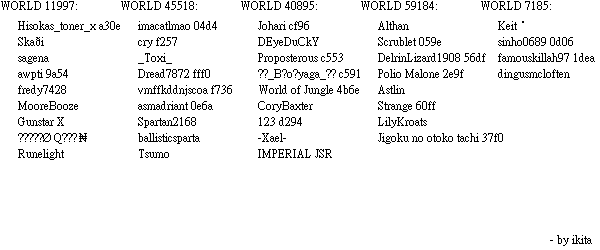
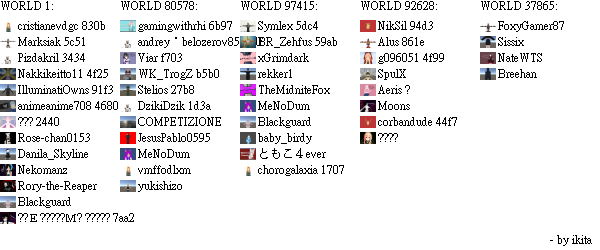
Thumbnail version

diff --git a/time-in-image.js b/time-in-image.js
@@ -69,9 +69,9 @@ const make8x8ImageBufferWith4Colors = worldid=>{
 										image.print(font, 0+key*(120) + 18, 20+key2*16, name);
 										
 										// console.log(image.measureText(font, name));
-										var pic = value2.currentAvatarImageUrl;
-										callback2();
-/* 										if (typeof pic !== 'undefined' && pic !== null){
+										var pic = value2.currentAvatarThumbnailImageUrl;
+										// callback2();
+ 										if (typeof pic !== 'undefined' && pic !== null){
 											console.log(pic)
 											var r = request(pic, function (e, response) {
 												if (e) {
@@ -98,7 +98,7 @@ const make8x8ImageBufferWith4Colors = worldid=>{
 										} else {
 											console.log("pic path undef")
 											callback2();
-										}; */
+										}; 
 
 									}, function (err) {
 										console.log('  Current instance processed.');
